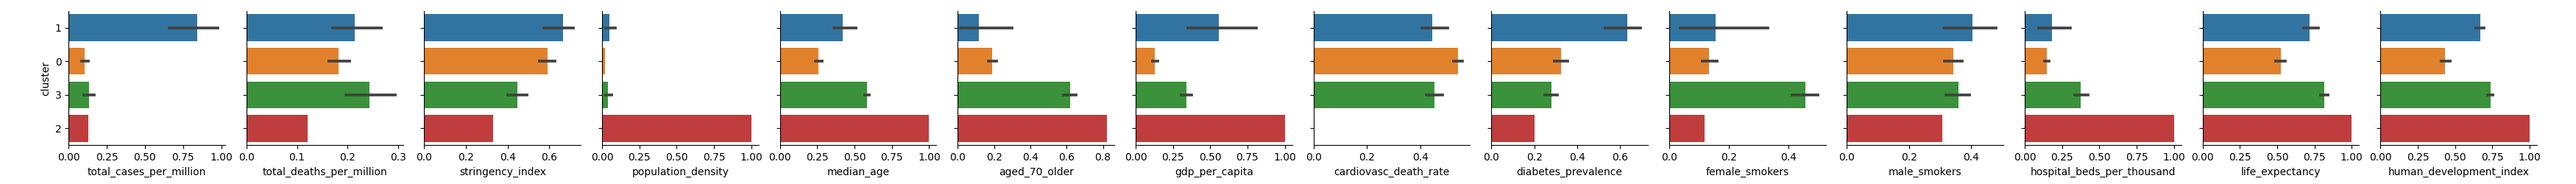
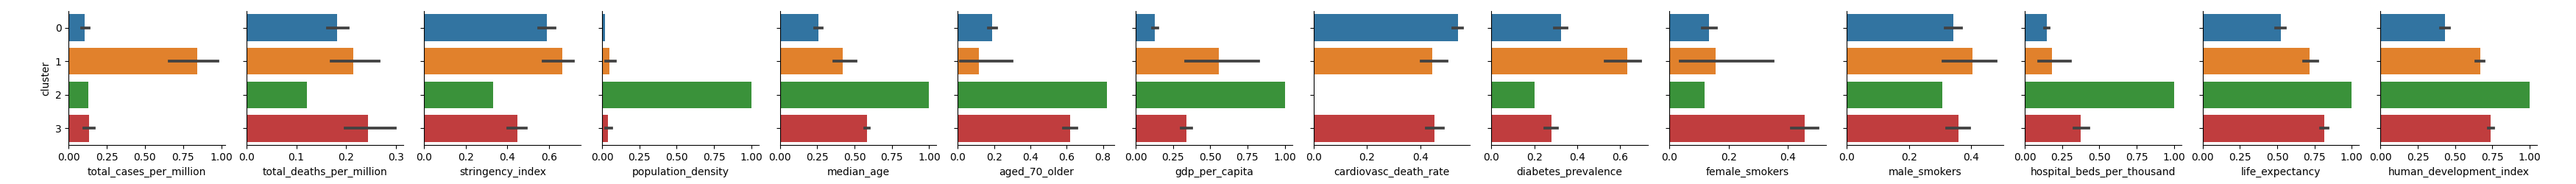
Sort clusters in cluster means plot

diff --git a/src/visualization/clustering_pairplot.py b/src/visualization/clustering_pairplot.py
@@ -11,6 +11,9 @@ methods = {
 }
 
 for method, clustering in methods.items():
-    sns.pairplot(pd.concat([data, clustering], axis=1),
-                 hue='cluster', palette='Set2')
+    sns.pairplot(
+        pd.concat([data, clustering], axis=1),
+        hue='cluster',
+        palette='Set2'
+    )
     plt.savefig(f'results/evaluation/{method}_pairplot.png')

diff --git a/src/visualization/cluster_means.py b/src/visualization/cluster_means.py
@@ -18,7 +18,7 @@ methods = {
 
 for method, clustering in methods.items():
     g = sns.PairGrid(
-        pd.concat([data, clustering], axis=1),
+        pd.concat([data, clustering], axis=1).sort_values(by=['cluster']),
         x_vars=features,
         y_vars='cluster'
     )
